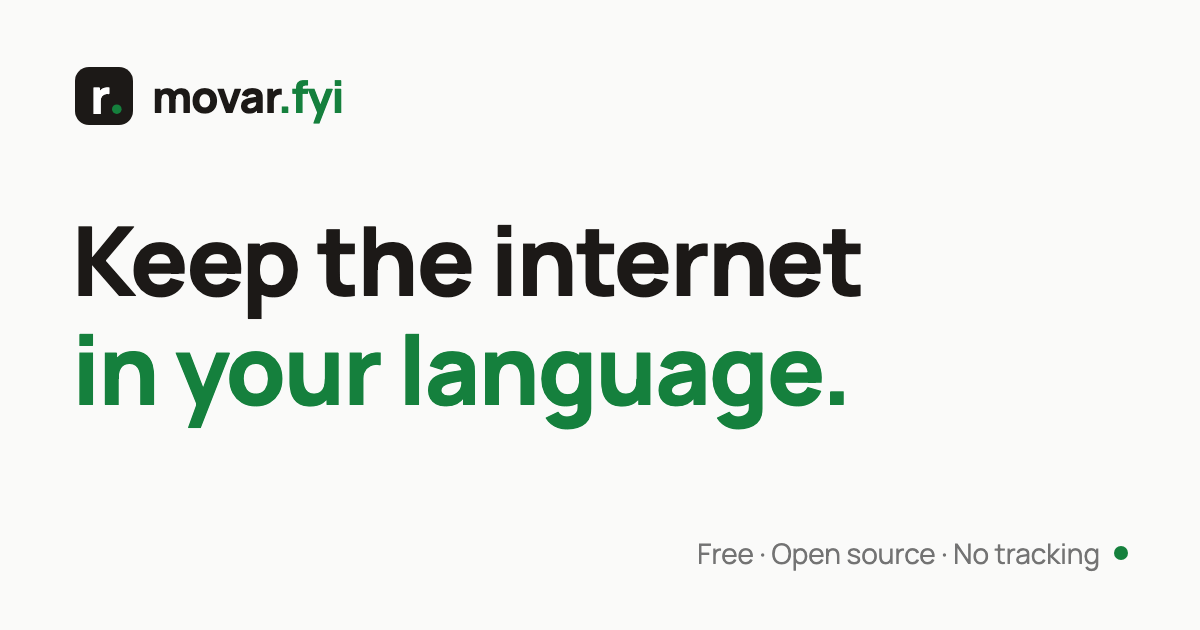
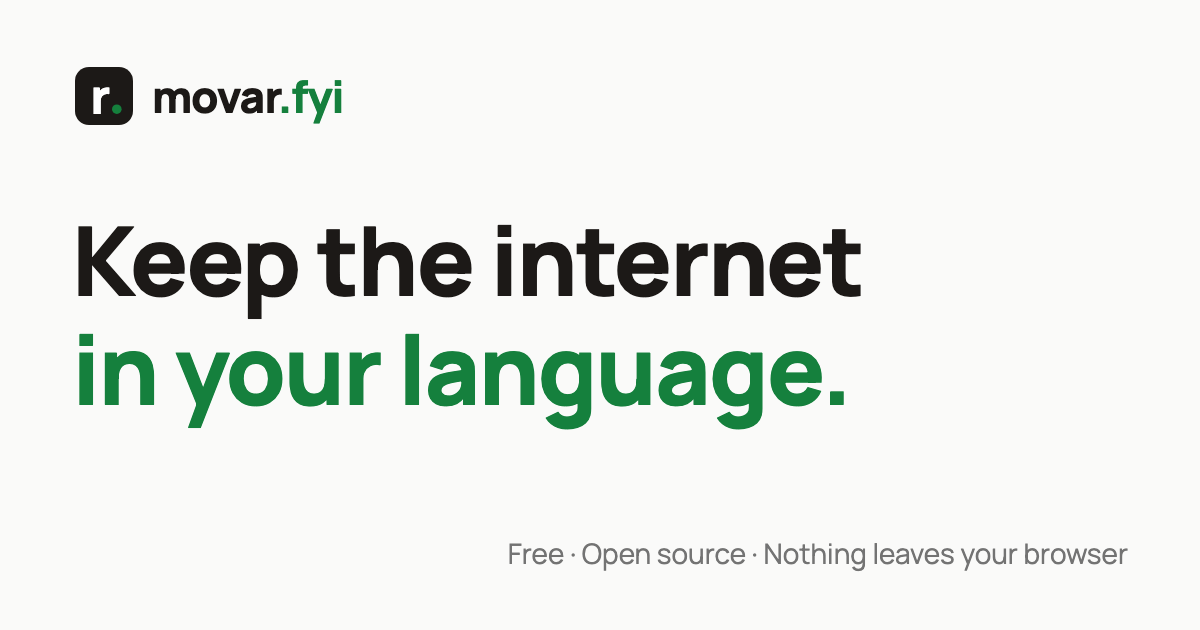
fix(marketing): rephrase OG caption to the verified privacy claim, drop annotation dot (#286)
The OG share card's bottom-right caption ended with a 14px forest accent
dot sitting right after the privacy claim, where a footnote marker goes —
it read as a "terms apply" annotation hanging off the last word. Remove it;
the accent still carries in the wordmark and tagline line 2, and the caption
now ends flush with the same 72px right margin the wordmark and tagline share
(the dot had also pushed the text past that margin).

Rephrase the caption from "No tracking" / «Без стеження» to the canonical
"Nothing leaves your browser" / «Нічого не покидає браузер» — the same
machine-verified promise string already used by the hero badge, the Safari
host app, and the store listing, so the claim reads identically everywhere.

Also:
- The checked-in UK PNG still rendered a retired tagline ("Хай інтернет буде
  вашою мовою."); the card is captured on demand and nobody had re-run it.
  Regenerating both cards picks up the current tagline and the new caption.
- Widen the copy-contract caption cap 6 -> 8 words (docs/copy.md) so the spec
  matches what shipped, per its own round-up rule.
- The claim string now appears on the OG card too, so add it to the
  "Nothing leaves your browser" promise's claim sites (scripts/lib/promises.mts);
  regenerate the README promises block that field drives.

Changed region(s): [[0.4317, 0.8444, 0.9558, 0.9048]]

diff --git a/apps/marketing/src/og/OgCard.tsx b/apps/marketing/src/og/OgCard.tsx
@@ -46,10 +46,7 @@ export function OgCard({ lang = 'en' }: Readonly<OgCardProps>): JSX.Element {
         <p style={{ ...taglineLineStyle, color: ACCENT, marginTop: 8 }}>{t.taglineLine2}</p>
       </div>
 
-      <div style={captionStyle}>
-        <span>{t.caption}</span>
-        <span style={accentDotStyle} />
-      </div>
+      <p style={captionStyle}>{t.caption}</p>
     </div>
   );
 }
@@ -104,22 +101,20 @@ const taglineLineStyle: CSSProperties = {
   color: INK,
 };
 
+/**
+ * Deliberately no trailing accent dot. The card once ended the caption with a
+ * 14px forest circle; at social-preview scale it read as a footnote marker
+ * hanging off the last claim — exactly the "terms apply" implication a privacy
+ * line must not carry. The accent now lives only in the wordmark and tagline
+ * line 2, and the caption ends flush with the 72px right margin the wordmark
+ * and tagline share.
+ */
 const captionStyle: CSSProperties = {
   position: 'absolute',
   right: 72,
   bottom: 56,
-  display: 'flex',
-  alignItems: 'center',
-  gap: 14,
+  margin: 0,
   color: INK_FAINT,
   fontSize: 28,
   fontWeight: 400,
-};
-
-const accentDotStyle: CSSProperties = {
-  display: 'inline-block',
-  width: 14,
-  height: 14,
-  borderRadius: 9999,
-  background: ACCENT,
 };

diff --git a/apps/marketing/src/i18n.ts b/apps/marketing/src/i18n.ts
@@ -558,7 +558,7 @@ const en: Strings = {
   og: {
     taglineLine1: tagline.en.line1,
     taglineLine2: tagline.en.line2,
-    caption: 'Free · Open source · No tracking',
+    caption: 'Free · Open source · Nothing leaves your browser',
   },
   whyThisHappens: {
     pageTitle: 'Why this keeps happening — Movar',
@@ -982,7 +982,7 @@ const uk: Strings = {
   og: {
     taglineLine1: tagline.uk.line1,
     taglineLine2: tagline.uk.line2,
-    caption: 'Безкоштовно · Відкритий код · Без стеження',
+    caption: 'Безкоштовно · Відкритий код · Нічого не покидає браузер',
   },
   whyThisHappens: {
     pageTitle: 'Чому так стається — Movar',

diff --git a/docs/copy.md b/docs/copy.md
@@ -279,7 +279,7 @@ Mode is orthogonal. Both promote and protect have an **action** mode (one senten
 | Close          | Lead                            | ≤ 25 words            | warm (state/promote)     | _"Have a question, an idea..."_                                                                                                        |
 | Footer         | Link                            | 1–2 words             | state                    | _"Privacy"_, _"Install"_                                                                                                               |
 | OG card        | Tagline line                    | 2–4 words             | promote                  | _"Keep the internet"_                                                                                                                  |
-| OG card        | Caption                         | ≤ 6 words             | state                    | _"Free · Open source · No tracking"_                                                                                                   |
+| OG card        | Caption                         | ≤ 8 words             | state                    | _"Free · Open source · Nothing leaves your browser"_                                                                                   |
 | Deep-dive      | Section heading                 | 4–10 words            | protect-in-explanation   | _"Language detectors guess from letters"_                                                                                              |
 | Deep-dive      | Section lead                    | ≤ 30 words            | protect-in-explanation   | _"They don't read pages..."_                                                                                                           |
 | Deep-dive      | Bullet point                    | ≤ 55 words            | protect-in-explanation   | (full bullet)                                                                                                                          |

diff --git a/README.md b/README.md
@@ -105,7 +105,7 @@ length-and-register caps.
 - **License** `MIT` — SPDX identifier read from the root `LICENSE` file.
 - **Promises** `3/3 kept` — public claims from movar.fyi (apps/marketing) verified against the code each build — `pnpm check:readme` fails if any breaks:
   - ✓ **Open source** — root LICENSE is MIT, an OSI-approved open-source license _(marketing: hero badge + footer)_
-  - ✓ **Nothing leaves your browser** — manifest declares data collection 'none', no analytics dependency, and no fetch/XHR/WebSocket/sendBeacon in the extension runtime _(marketing: hero badge + privacy section + limitations)_
+  - ✓ **Nothing leaves your browser** — manifest declares data collection 'none', no analytics dependency, and no fetch/XHR/WebSocket/sendBeacon in the extension runtime _(marketing: hero badge + OG card + privacy section + limitations)_
   - ✓ **On-page filtering stays off until you turn it on** — `defaultSettings.contentModification` is false in @movar/settings — DOM filtering ships opt-in _(marketing: how-it-works step 2 + limitations)_
 - **Permissions** `3 requested` — browser permissions the extension manifest requests, each scoped to one job:
   - `storage` — persist your settings, pause state, and the local corrections log (preferences sync; state stays on-device)
